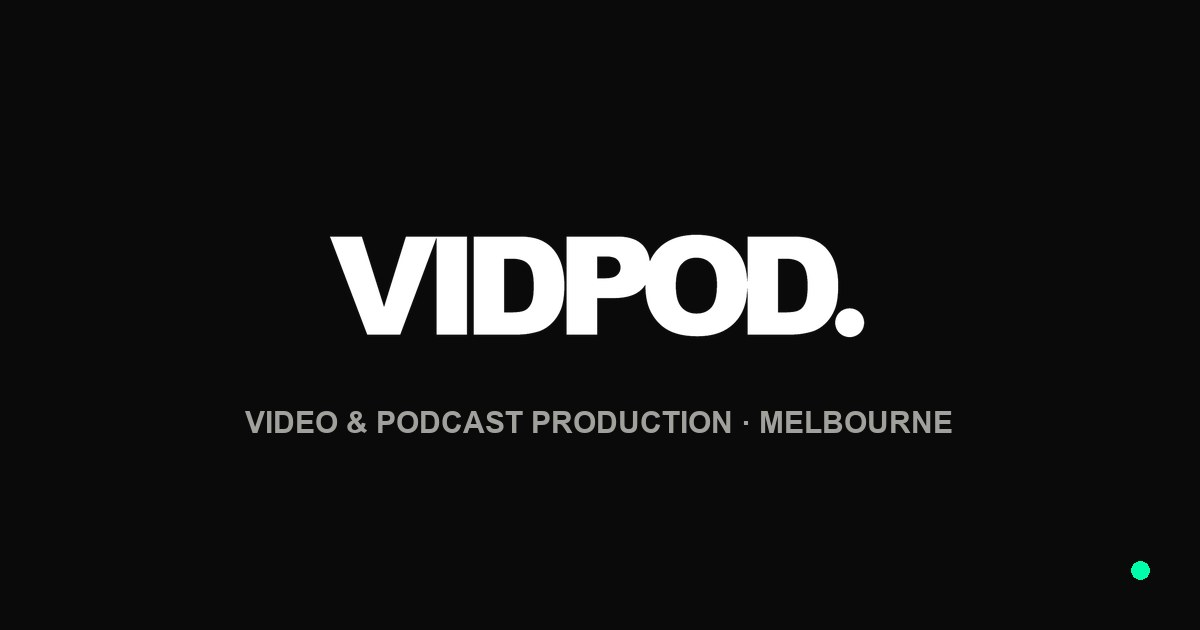
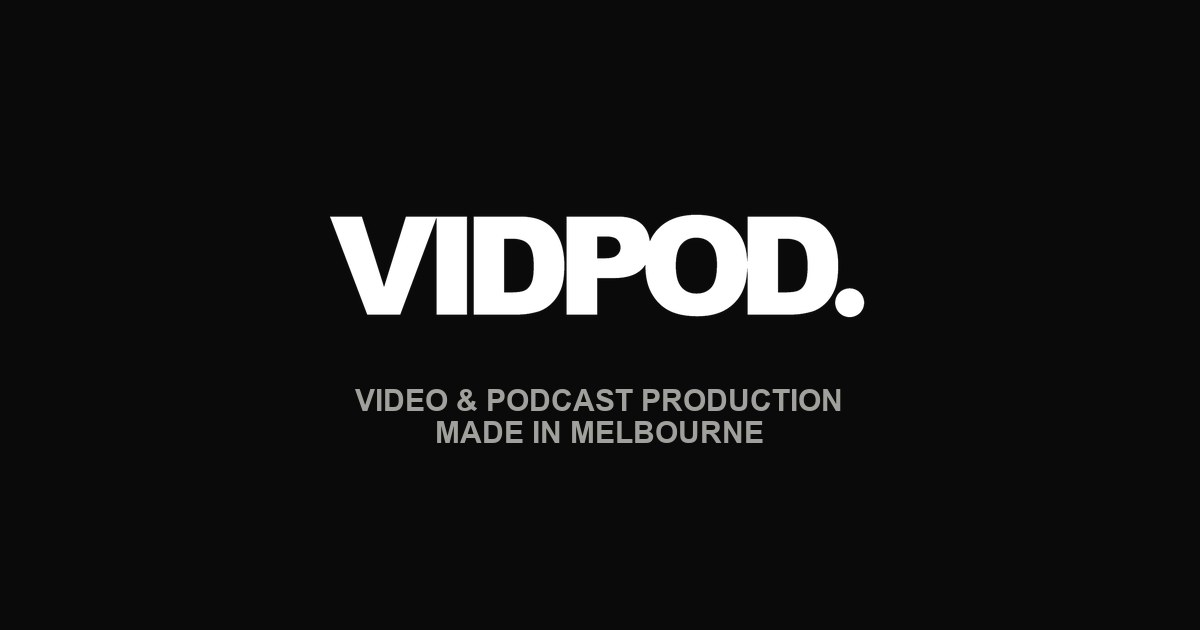
Social card v2: drop green dot, two-line tagline. Homepage og:title shortened to 'Video & Podcast Production.', og:description leads with 'Made in Melbourne.' so the line break lands naturally in link previews.

Changed region(s): [[0.2775, 0.3317, 0.74, 0.5429], [0.185, 0.6032, 0.8017, 0.7238], [0.925, 0.8746, 0.9558, 0.9349]]

diff --git a/index.html b/index.html
@@ -5,9 +5,9 @@
 <meta name="viewport" content="width=device-width, initial-scale=1.0">
 <meta name="description" content="VIDPOD. Melbourne video and podcast production. Your end-to-end production partner.">
 <meta name="author" content="VIDPOD">
-<meta property="og:title" content="Video & Podcast Production. Made in Melbourne.">
+<meta property="og:title" content="Video & Podcast Production.">
 <meta property="og:image" content="https://www.vidpod.com.au/img/social/og-default.jpg">
-<meta property="og:description" content="Melbourne video and podcast production. Your end-to-end production partner.">
+<meta property="og:description" content="Made in Melbourne. Your end-to-end production partner.">
 <meta property="og:type" content="website">
 <meta property="og:url" content="https://www.vidpod.com.au/">
 <title>VIDPOD. Video and Podcast Production Melbourne.</title>
